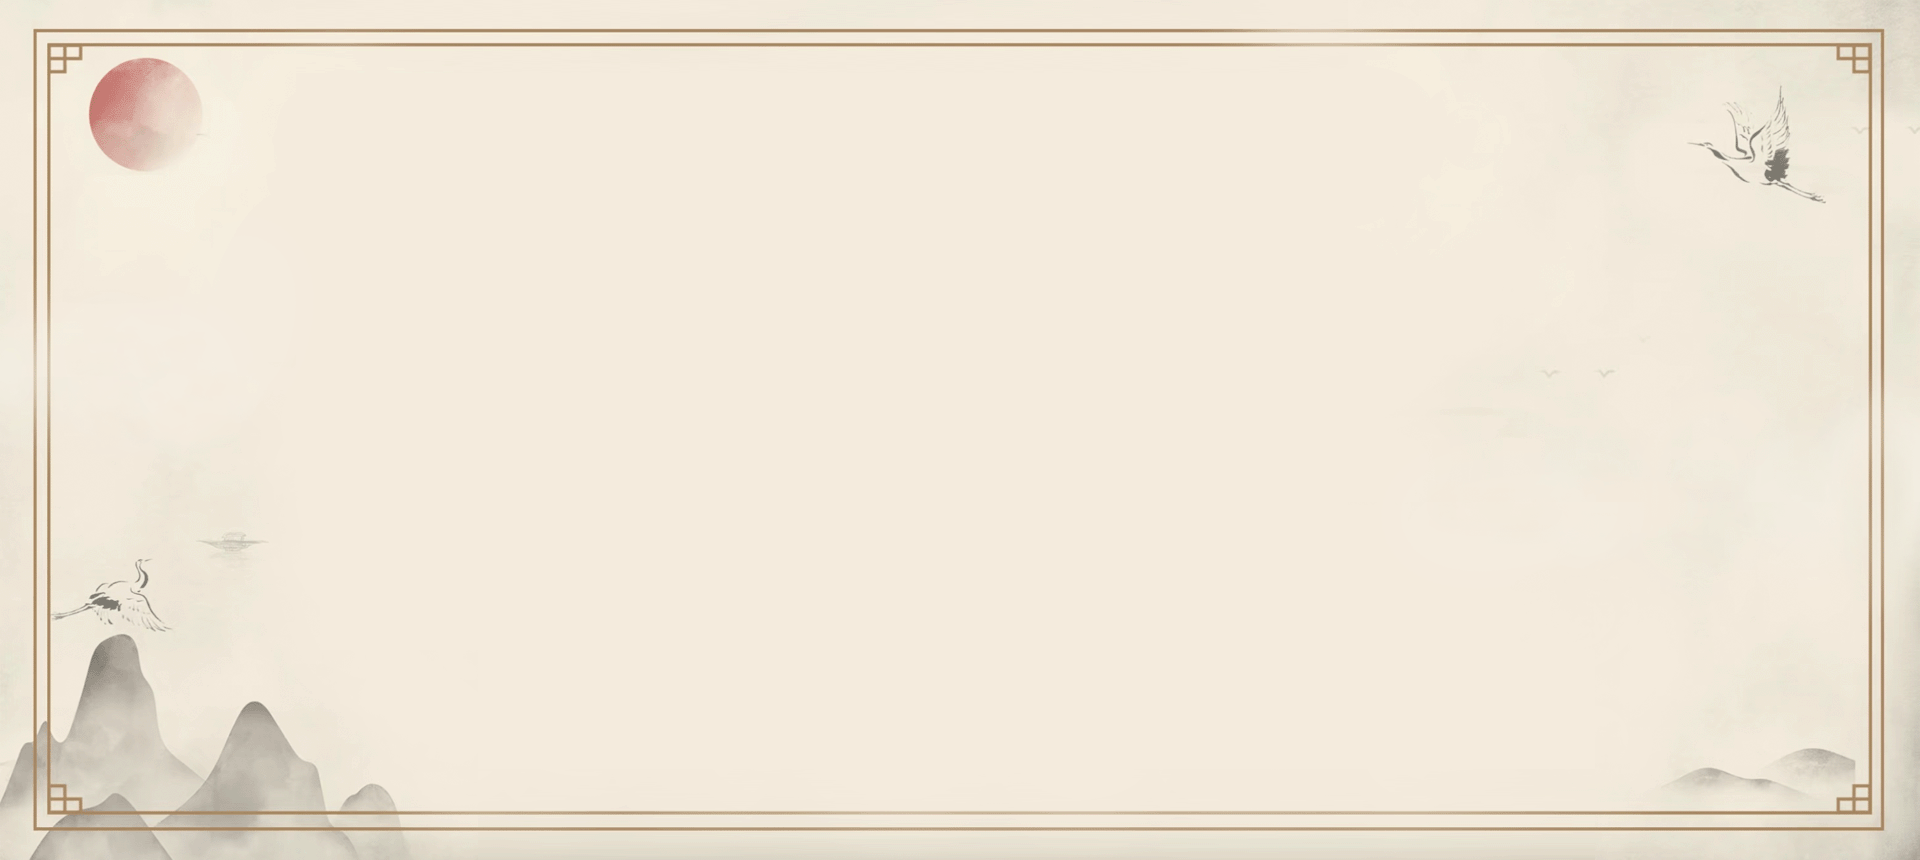
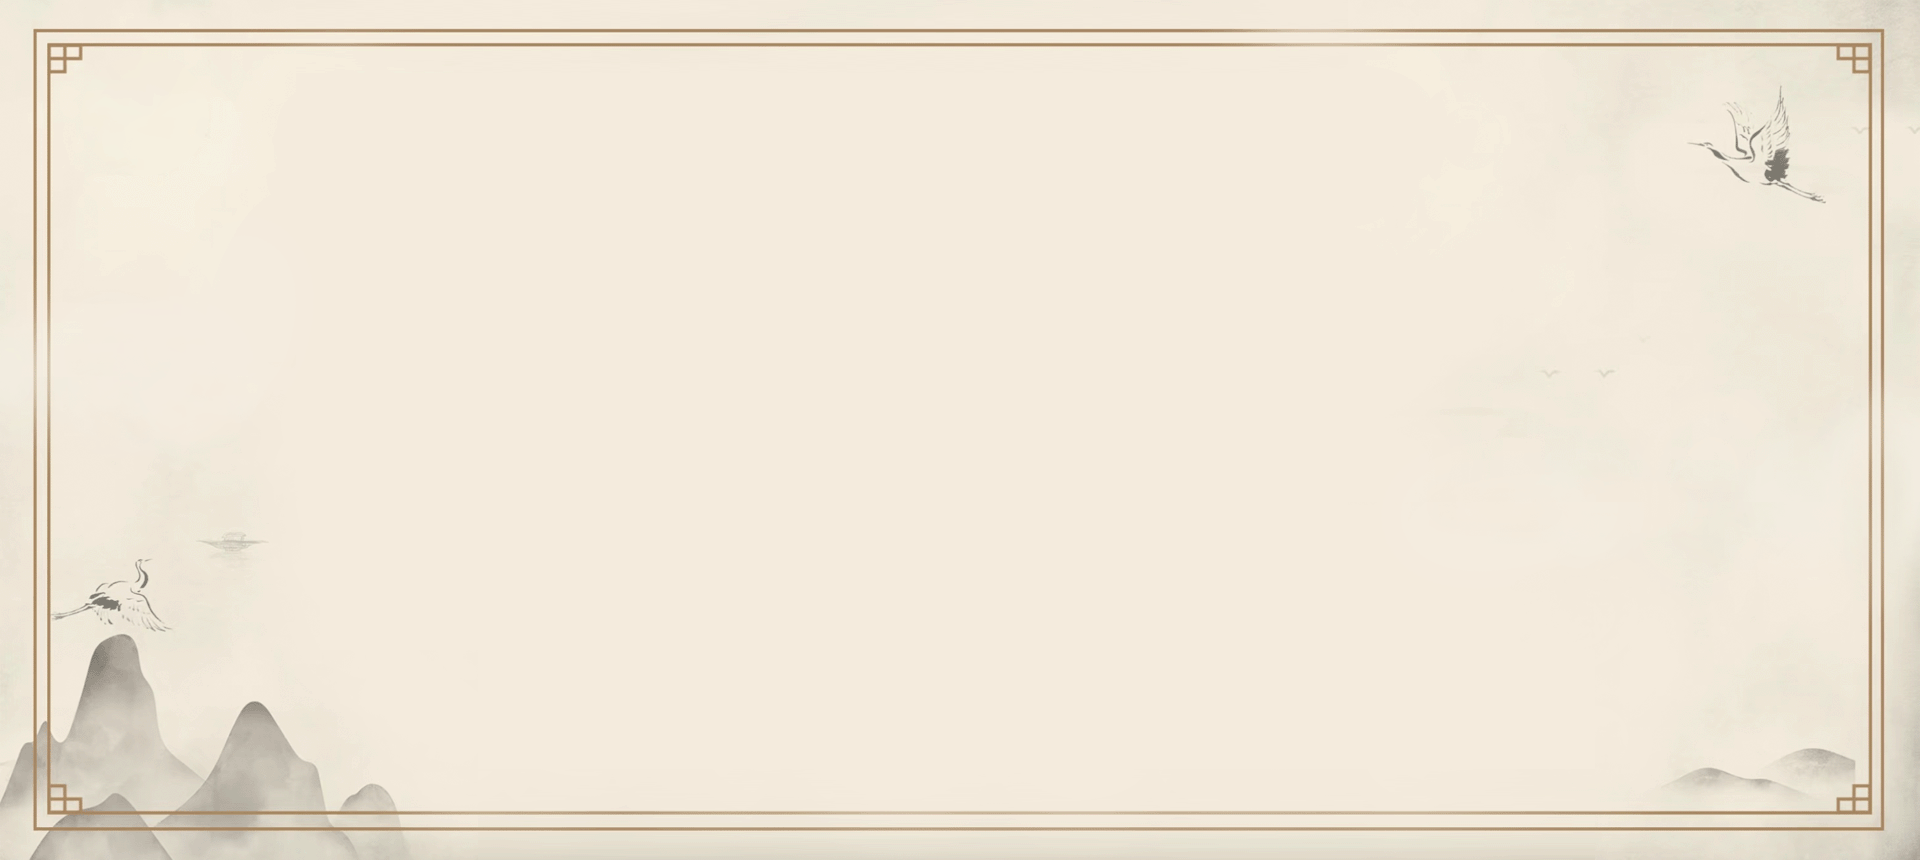
背景(回纹朱日): 改为 nosun 底图 + 左上角 sun 叠加层合成，sun 等比缩放避免变形
- 底图替换为 信笺3-nosun.png，保持 100% 100% 自由拉伸
- 新增 assets/bg/meander-sun-overlay.png (信笺3-sun)，作为 CSS 多背景第二层
- sun 高度锚定容器高度 (auto 13.72% ≈ 118/860)，宽度等比，不随拉伸变形
- 位置锚定左上角、与上边线/左边线保持原图相对距离，位置微调至 3.5% 9%
- 设置面板缩略图同步为 nosun + sun 叠加预览
- README 同步背景与目录结构说明

Changed region(s): [[0.0312, 0.0605, 0.125, 0.2116]]

diff --git a/scripts/reader/background.js b/scripts/reader/background.js
@@ -12,6 +12,8 @@ const backgroundPatterns = {
     // 国风：四幅整幅画面（不重复平铺），元素组合取自 bg_refer/ 参考图，风格内部自洽
     //   绢荷 / 雾竹 / 云山 / 祥云洒金
     // 注意：该 url 由消费 --bg-pattern 的 styles/base.css 解析，故 ../ 先回到项目根再进 assets/
+    // meander-sun 为双层背景（sun 叠加层 + nosun 底图），size/repeat/position 由
+    // applyBackground() 中的 meander-sun 分支单独下发逗号分隔值。
     chinese: {
         'silk-lotus': "url('../assets/bg/silk-lotus.svg')",
         'mist-bamboo': "url('../assets/bg/mist-bamboo.svg')",
@@ -25,7 +27,10 @@ const backgroundPatterns = {
     stationery: {
         'crane-hills': "url('../assets/bg/crane-hills.png')",
         'osmanthus-kraft': "url('../assets/bg/osmanthus-kraft.png')",
-        'meander-sun': "url('../assets/bg/meander-sun.png')",
+        // 回纹朱日：nosun 底图（自由拉伸）+ 朱日 sun 左上角叠加。
+        // sun 层等比缩放：height = 容器高 × 13.7%（≈118/860），width auto 保持长宽比；
+        // 位置锚定左上角、与上边线/左边线保持原图相对距离（2.25%/4.5%）。
+        'meander-sun': "url('../assets/bg/meander-sun-overlay.png'), url('../assets/bg/meander-sun.png')",
         'watercolor-pond': "url('../assets/bg/watercolor-pond.png')"
     }
 };
@@ -133,9 +138,20 @@ function applyBackground() {
             document.documentElement.style.setProperty('--bg-pattern-position', 'center');
         } else if (state.settings.backgroundType === 'stationery') {
             // 信笺：贴合"标题栏以下整块区域"拉伸填充（100% 100%，不等比、不裁切）
-            document.documentElement.style.setProperty('--bg-pattern-size', '100% 100%');
-            document.documentElement.style.setProperty('--bg-pattern-repeat', 'no-repeat');
-            document.documentElement.style.setProperty('--bg-pattern-position', 'center');
+            if (state.settings.backgroundPattern === 'meander-sun') {
+                // 回纹朱日：双层背景——sun 在前、nosun 在后。
+                // sun：height 锚定容器高（118/860≈13.72%，随网页尺寸等比），width auto 保持长宽比；
+                //      位置距上边线、左边线保持原图相对距离（原 sun 内容左上角在 86,55，
+                //      对应 4.5% / 6.4%，扣除边框内侧留白后取 3.5% / 5%）。
+                // nosun：继续 100% 100% 自由拉伸。
+                document.documentElement.style.setProperty('--bg-pattern-size', 'auto 13.72%, 100% 100%');
+                document.documentElement.style.setProperty('--bg-pattern-repeat', 'no-repeat, no-repeat');
+                document.documentElement.style.setProperty('--bg-pattern-position', '3.5% 9%, center');
+            } else {
+                document.documentElement.style.setProperty('--bg-pattern-size', '100% 100%');
+                document.documentElement.style.setProperty('--bg-pattern-repeat', 'no-repeat');
+                document.documentElement.style.setProperty('--bg-pattern-position', 'center');
+            }
         } else {
             // 国风：整幅画面，铺满不平铺
             document.documentElement.style.setProperty('--bg-pattern-size', 'cover');

diff --git a/index.html b/index.html
@@ -559,7 +559,7 @@
                         <button class="bg-option stationery" data-bg="stationery" data-pattern="osmanthus-kraft" data-i18n-title="settings.bg.pattern.osmanthusKraft" title="桂花旧纸" 
                             style="background-color:#EFE8D5; background-image: url('assets/bg/osmanthus-kraft.png'); background-size: contain; background-repeat: no-repeat; background-position: center;"></button>
                         <button class="bg-option stationery" data-bg="stationery" data-pattern="meander-sun" data-i18n-title="settings.bg.pattern.meanderSun" title="回纹朱日" 
-                            style="background-color:#F1ECDE; background-image: url('assets/bg/meander-sun.png'); background-size: contain; background-repeat: no-repeat; background-position: center;"></button>
+                            style="background-color:#F1ECDE; background-image: url('assets/bg/meander-sun.png'), url('assets/bg/meander-sun-overlay.png'); background-size: contain, 40% auto; background-repeat: no-repeat; background-position: center, 15% 28%;"></button>
                         <button class="bg-option stationery" data-bg="stationery" data-pattern="watercolor-pond" data-i18n-title="settings.bg.pattern.watercolorPond" title="水彩荷塘" 
                             style="background-color:#F3F5E9; background-image: url('assets/bg/watercolor-pond.png'); background-size: contain; background-repeat: no-repeat; background-position: center;"></button>
                     </div>

diff --git a/README.md b/README.md
@@ -53,7 +53,7 @@
 - 图标: 使用Lucide Icons (线条简洁，与设计语言一致)
 - 装饰: 极简的线条分隔，少量几何装饰
 - 文艺背景: 内联 SVG 几何纹样（六边形 / 三角 / 菱形 / 节点连线），平铺
-- 国风 / 信笺背景: `assets/bg/` 下整幅画面，均为本地文件、无外部网络请求。国风 4 幅 SVG（绢荷 / 雾竹 / 云山 / 祥云洒金）以 cover 铺满视口；信笺 4 幅 1920×860 PNG（鹤影青绿 / 桂花旧纸 / 回纹朱日 / 水彩荷塘）不等比拉伸铺满标题栏以下的整块区域，画面完整、不被标题栏遮挡，状态栏关闭时底部也不会留白
+- 国风 / 信笺背景: `assets/bg/` 下整幅画面，均为本地文件、无外部网络请求。国风 4 幅 SVG（绢荷 / 雾竹 / 云山 / 祥云洒金）以 cover 铺满视口；信笺 4 幅 1920×860 PNG（鹤影青绿 / 桂花旧纸 / 回纹朱日 / 水彩荷塘）不等比拉伸铺满标题栏以下的整块区域，画面完整、不被标题栏遮挡，状态栏关闭时底部也不会留白；其中回纹朱日由 nosun 底图（自由拉伸）与左上角朱日 sun 叠加层（等比缩放、随画面高度等比，位置锚定上边线/左边线）合成
 
 
 ### 响应式策略
@@ -352,7 +352,7 @@ index.html              入口（无构建步骤）
 proxy.php               同源抓取代理（可选，仅 URL 导入需要）
 daodejing.txt           示例文本
 img/                    README 截图 + favicon.svg（标签页图标，与标题栏书本符号一致）
-assets/bg/              阅读背景画面（国风 4 幅 SVG + 信笺 4 幅 1920×860 PNG，本地文件）
+assets/bg/              阅读背景画面（国风 4 幅 SVG + 信笺 4 幅 1920×860 PNG，本地文件；meander-sun-overlay.png 为回纹朱日的朱日叠加层）
 libs/                   本地第三方库（marked / Prism / Mermaid / Turndown / Lucide）
 styles/                 样式（变量 / 布局 / 内容 / 编辑器 / 弹窗 / TOC / 响应式…）
 scripts/
